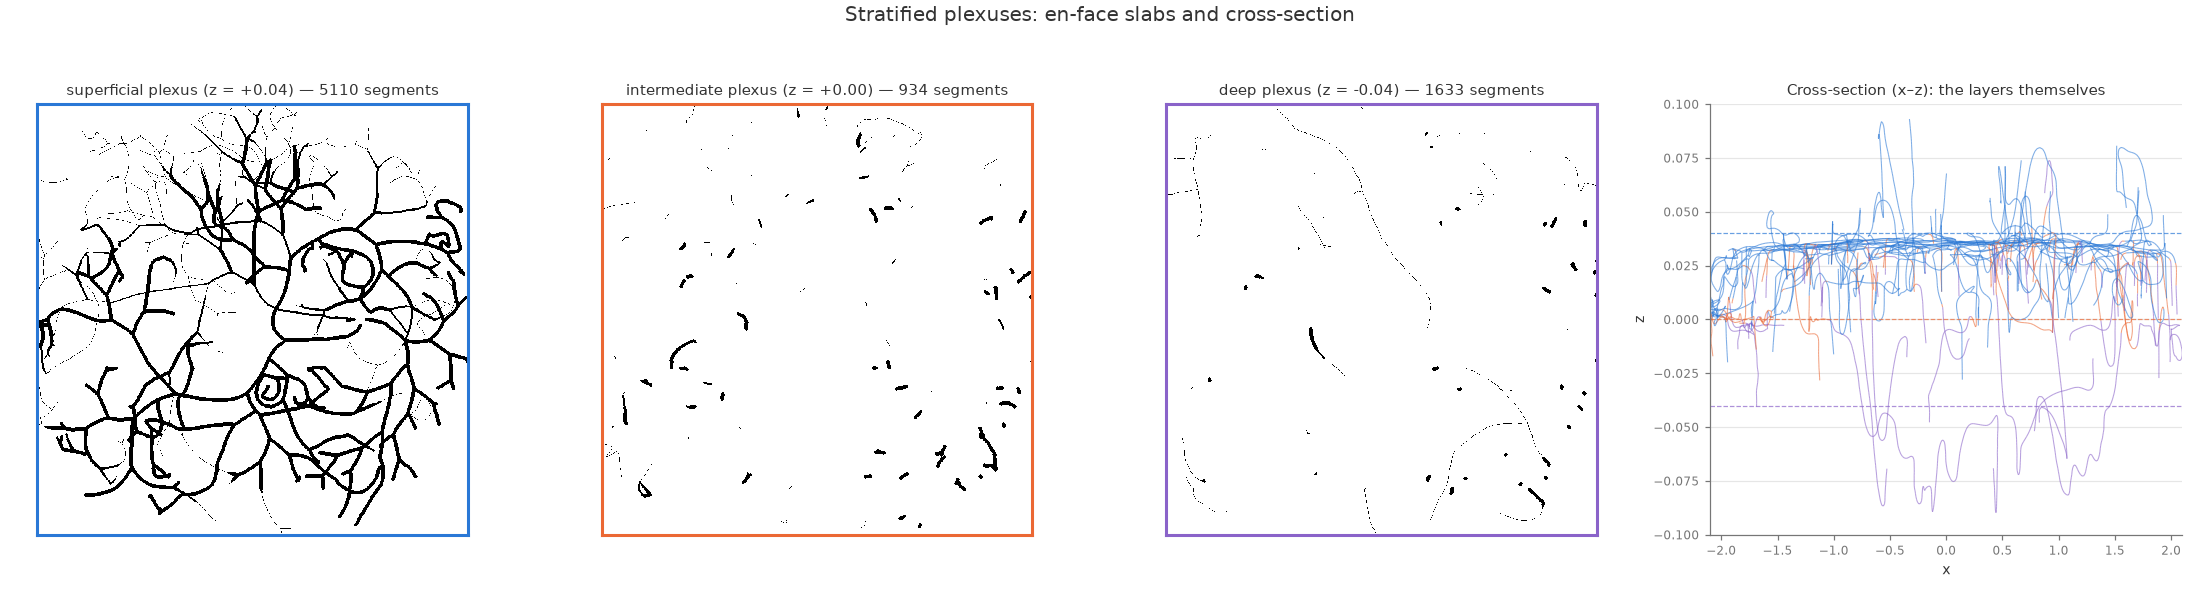
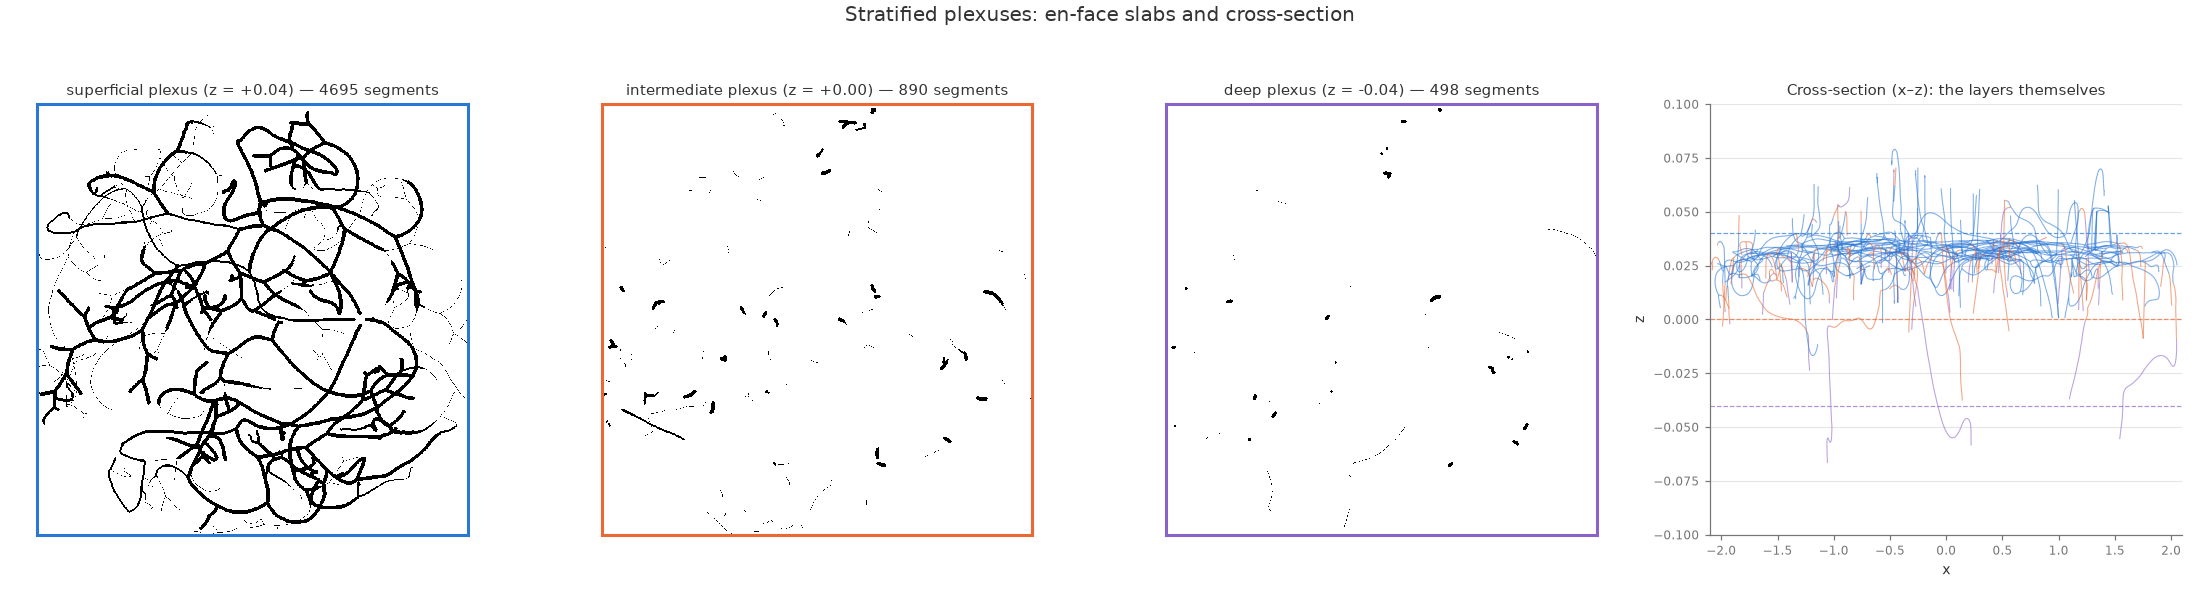
Apply the first vnv_calibrate fit and regenerate docs/vnv
The 22-evaluation coordinate-descent fit moved three knobs --
caliber_cadence_exponent 0.6 -> 0.75, adaptation_rate 0.15 -> 0.10,
perfusion_demand.magnitude 0.3 -> 0.35 -- and cut the calibration score
from 38.7 to 24.7 (-36%): KS distance to the HRF length distribution
0.171 -> 0.074, capillary branch share 22.5% -> 19.1%, fractal
dimension 1.43 -> 1.41 (HRF 1.35), area density 14.2% -> 13.6% (HRF
11.9%), with the A:V ratio (0.66) and tortuosity (1.003) holding;
skeleton density traded back 2.69% -> 2.43% (HRF 3.21%).

The search surface is coupled and sharp: split_interval 18 collapses
the network outright (score ~4,500) and the old cadence exponent scores
340 under the new incumbent -- the knobs cannot be tuned one feature at
a time. Robustness: the fitted knobs beat the previous spec on every
seed tested (38.7 -> 24.7 on the fit seed; 269 -> 157 and 46 -> 45 on
two held-out seeds), though seed-to-seed spread exceeds the within-seed
improvement; a multi-seed objective is the documented next step for the
harness.

Claude-Session: https://claude.ai/code/session_01U4Qk2Zw65JYjTrDCWeGrpE

diff --git a/docs/realism_roadmap.md b/docs/realism_roadmap.md
@@ -269,8 +269,29 @@ every standard run (`calibration` block, plus the total in the figure
 headline) so it is tracked across model versions like every other metric.
 The fit itself is coordinate descent over the eight knobs the sweeps showed
 the metrics respond to, one 800-step run per evaluation, every evaluation
-logged. Disease phenotypes remain future work: the ingredients (the OU
-tortuosity dial, per-type perfusion, pruning) are in place.
+logged.
+
+The first fit (22 evaluations) moved three knobs —
+`caliber_cadence_exponent` 0.6 → 0.75, `adaptation_rate` 0.15 → 0.10,
+`perfusion_demand.magnitude` 0.3 → 0.35 — and cut the calibration score
+from 38.7 to 24.7 (−36%): KS distance to the HRF length distribution
+0.171 → 0.074, capillary branch share 22.5% → 19.1%, fractal dimension
+1.43 → 1.41 (HRF 1.35), area density 14.2% → 13.6% (HRF 11.9%), with the
+A:V ratio (0.66) and tortuosity (1.003) holding; skeleton density gave
+back 2.69% → 2.43% (HRF 3.21%) as the search traded it against the
+distributional terms. The search surface is genuinely coupled and sharp:
+`split_interval` 18 collapses the network outright (score ≈ 4,500), and
+the old cadence exponent 0.6 scores 340 under the *new* incumbent — the
+knobs cannot be tuned one feature at a time, which is exactly why the
+harness exists. Robustness: the fitted knobs beat the previous spec on
+*every* seed tested (38.7 → 24.7 on the fit seed; 269 → 157 and 46 → 45
+on two held-out seeds), but the seed-to-seed spread is larger than the
+within-seed improvement — whether a run catches a good growth trajectory
+dominates — so a natural next step for the harness is a multi-seed
+objective (average the score over 2–3 seeds per evaluation, at
+proportional compute cost). Disease phenotypes also remain future work:
+the ingredients (the OU tortuosity dial, per-type perfusion, pruning)
+are in place.
 
 ## Validation & verification (V&V)
 

diff --git a/CHANGELOG.rst b/CHANGELOG.rst
@@ -13,6 +13,13 @@
    - ``metrics.json`` now records the calibration score of every standard
      run (``calibration`` block + figure headline), tracked across model
      versions like every other metric
+   - The first fit (22 evaluations) moved three knobs
+     (``caliber_cadence_exponent`` 0.6 -> 0.75, ``adaptation_rate``
+     0.15 -> 0.10, ``perfusion_demand.magnitude`` 0.3 -> 0.35) and cut
+     the score 38.7 -> 24.7: KS to the HRF length distribution
+     0.171 -> 0.074, capillary share 22.5% -> 19.1%, fractal dimension
+     1.43 -> 1.41, area density 14.2% -> 13.6%, A:V ratio and tortuosity
+     holding; skeleton density traded back 2.69% -> 2.43%
 
 **v0.9.0 - 08/30/26**
 
